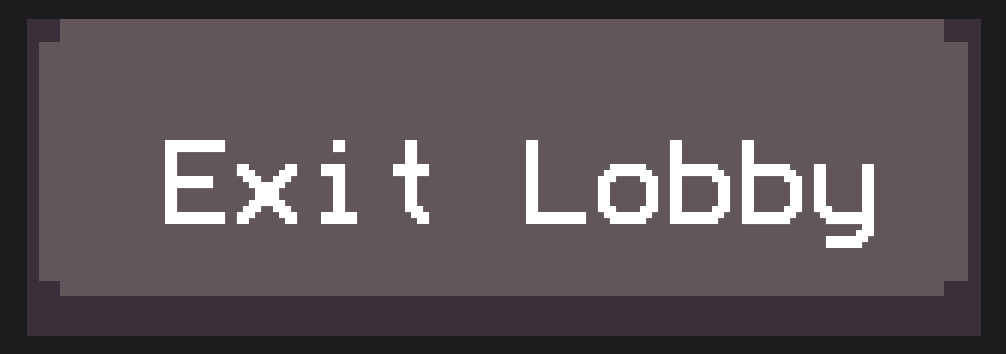
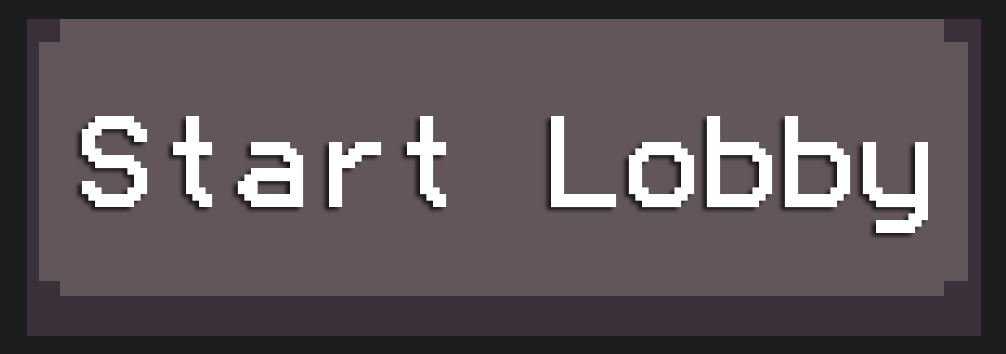
Better lobby screen for host.

Changed region(s): [[0.5239, 0.3107, 0.9245, 0.7147], [0.0616, 0.3107, 0.4622, 0.6525]]

diff --git a/core/src/com/csharp/game/screens/ui/screens/LobbyScreen.java b/core/src/com/csharp/game/screens/ui/screens/LobbyScreen.java
@@ -51,8 +51,8 @@ public class LobbyScreen extends MenuScreen implements IMenuScreen {
         textures.put("menuItemBack_pressed", new Texture(Gdx.files.internal("keys/EscKey_pressed.png")));
         textures.put("exitLobby_default", new Texture(Gdx.files.internal("menu/exitLobby_default.png")));
         textures.put("exitLobby_pressed", new Texture(Gdx.files.internal("menu/exitLobby_pressed.png")));
-        textures.put("startGame_default", new Texture(Gdx.files.internal("menu/startGame_default.png")));
-        textures.put("startGame_pressed", new Texture(Gdx.files.internal("menu/startGame_pressed.png")));
+        textures.put("startLobby_default", new Texture(Gdx.files.internal("menu/startLobby_default.png")));
+        textures.put("startLobby_pressed", new Texture(Gdx.files.internal("menu/startLobby_pressed.png")));
     }
 
     @Override
@@ -86,9 +86,9 @@ public class LobbyScreen extends MenuScreen implements IMenuScreen {
         exitLobbyStyle.over = new TextureRegionDrawable(new TextureRegion(textures.get("exitLobby_pressed")));
 
         ImageButton.ImageButtonStyle startGameStyle = new ImageButton.ImageButtonStyle();
-        startGameStyle.up = new TextureRegionDrawable(new TextureRegion(textures.get("startGame_default")));
-        startGameStyle.down = new TextureRegionDrawable(new TextureRegion(textures.get("startGame_pressed")));
-        startGameStyle.down = new TextureRegionDrawable(new TextureRegion(textures.get("startGame_pressed")));
+        startGameStyle.up = new TextureRegionDrawable(new TextureRegion(textures.get("startLobby_default")));
+        startGameStyle.down = new TextureRegionDrawable(new TextureRegion(textures.get("startLobby_pressed")));
+        startGameStyle.down = new TextureRegionDrawable(new TextureRegion(textures.get("startLobby_pressed")));
 
         defaultLabelStyle = new Label.LabelStyle();
         defaultLabelStyle.font = skin.getFont("modes");
@@ -123,14 +123,14 @@ public class LobbyScreen extends MenuScreen implements IMenuScreen {
         table.removeActor(playerTable);
         playerTable.clear();
         for (Player p : players) {
-            playerNameLabel = new Label(p.getName(), defaultLabelStyle);
+            Label playerNameLabel = new Label(p.getName(), defaultLabelStyle);
             playerTable.add(playerNameLabel).row();
         }
 
 
-        playerTable.add(exitLobby).padTop(200);
+        playerTable.add(exitLobby).padTop(200).size(200, 60);
         if(isHost) {
-            table.add(startGame);
+            table.add(startGame).size(200, 60);
         }
 
         table.add(playerTable).row();

diff --git a/core/src/com/csharp/game/logic/GameManager.java b/core/src/com/csharp/game/logic/GameManager.java
@@ -22,7 +22,7 @@ public class GameManager implements ILogic
     private IServerGame serverGame;
     private ClientLoginServer clientLoginServer;
     private Registry gameServerRegistry = null;
-    private static final String GAME_SERVER_HOST_ADRESS = "localhost";
+    private static final String GAME_SERVER_HOST_ADRESS = "192.168.0.100";
 //    private static final String GAME_SERVER_HOST_ADRESS = "192.168.1.89";
     private static final int GAME_SERVER_REGISTRY_PORT = 1099;
 

diff --git a/core/src/com/csharp/game/logic/ClientLoginServer.java b/core/src/com/csharp/game/logic/ClientLoginServer.java
@@ -10,7 +10,7 @@ import java.rmi.registry.Registry;
 public class ClientLoginServer
 {
 
-    private static final String LOGIN_SERVER_HOST_ADRESS = "localhost";
+    private static final String LOGIN_SERVER_HOST_ADRESS = "192.168.0.100";
 //    private static final String LOGIN_SERVER_HOST_ADRESS = "192.168.1.89";
     private static final int LOGIN_SERVER_REGISTRY_PORT = 1100;
     private ILogin loginServer;
